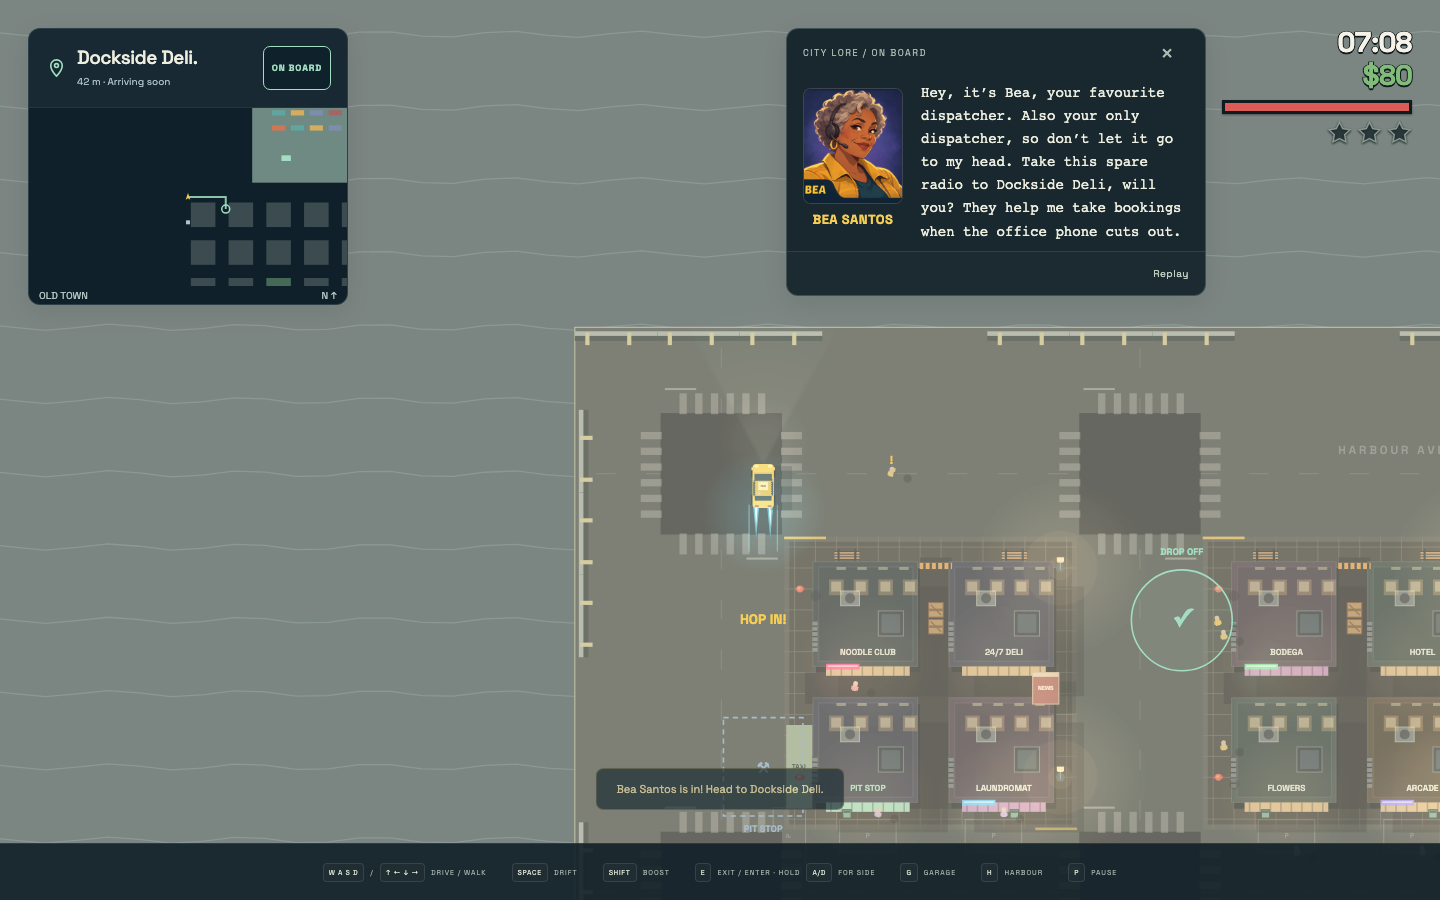
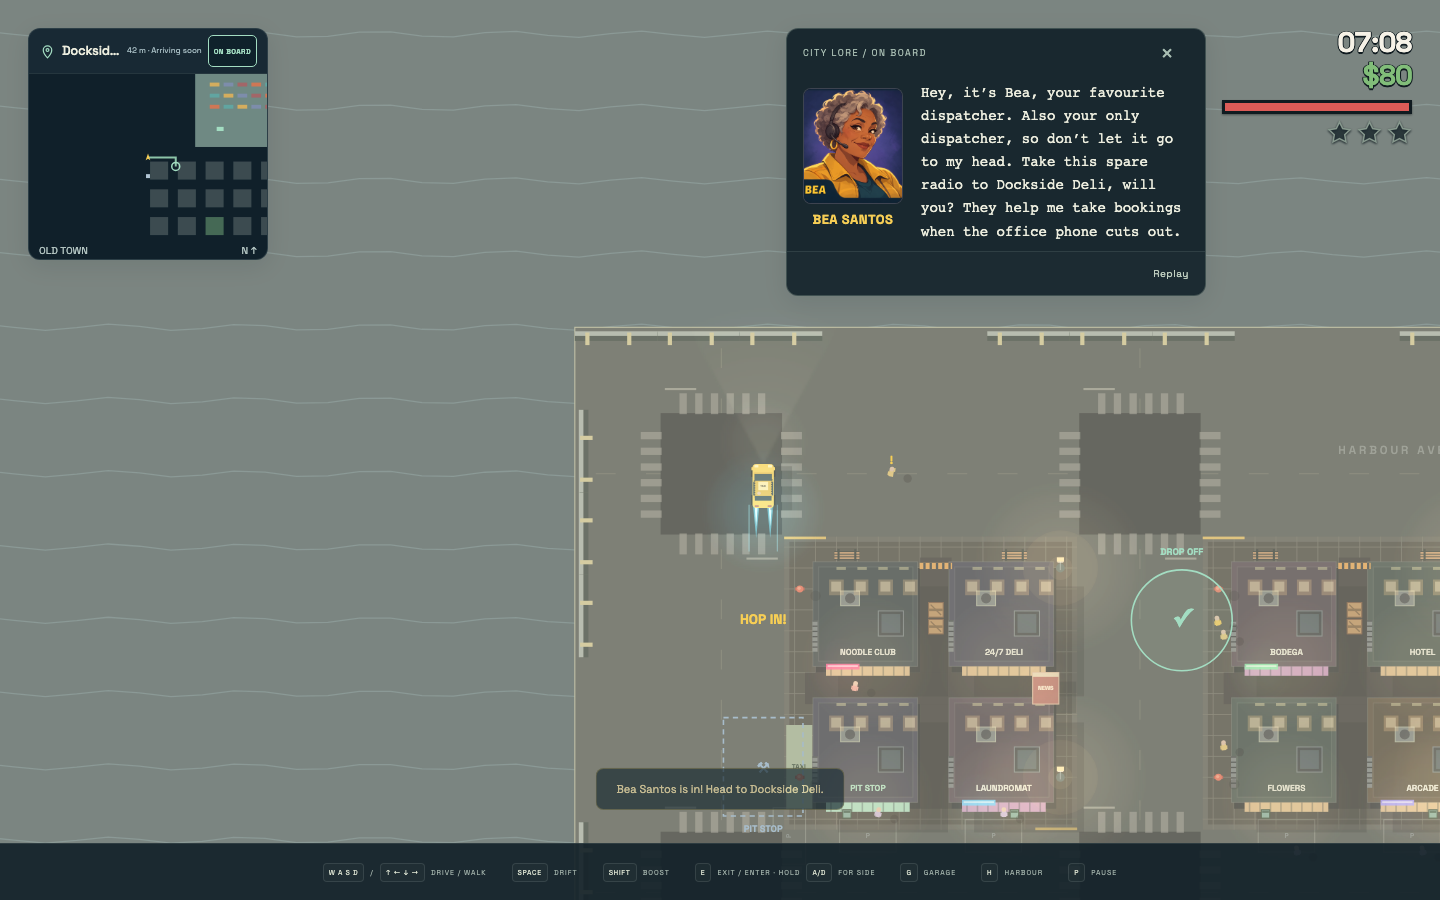
Compact navigation HUD into a single-line header and near-square map

Changed region(s): [[0.0, 0.0311, 0.25, 0.3422]]

diff --git a/src/navigation-hud.css b/src/navigation-hud.css
@@ -1,39 +1,36 @@
 /* Consolidated job and radar instrument. Personal status stays separate. */
-.navigation-hud{position:fixed;z-index:1;top:max(28px,env(safe-area-inset-top,0px));left:max(28px,env(safe-area-inset-left,0px));width:320px;overflow:hidden;background:#10222dec;touch-action:manipulation;--nav-accent:var(--gold)}
+.navigation-hud{position:fixed;z-index:1;top:max(28px,env(safe-area-inset-top,0px));left:max(28px,env(safe-area-inset-left,0px));--navigation-width:240px;width:var(--navigation-width);height:calc(var(--navigation-width) - 8px);display:flex;flex-direction:column;overflow:hidden;background:#10222dec;touch-action:manipulation;--nav-accent:var(--gold)}
 .navigation-hud [hidden]{display:none!important}
 .navigation-hud[data-state="on-board"],.navigation-hud[data-state="loaded"]{--nav-accent:var(--mint)}
 .navigation-hud[data-state="vacant"]{--nav-accent:#b9c9cb}
-.navigation-header{display:flex;gap:10px;align-items:center;justify-content:space-between;padding:14px 16px;min-height:78px}
-#navigation-destination{display:flex;gap:9px;align-items:center;min-width:0}
-#navigation-destination>div{min-width:0}
+.navigation-header{display:flex;flex-shrink:0;gap:6px;align-items:center;justify-content:space-between;padding:6px 10px;min-height:44px}
+#navigation-destination{display:flex;flex:1;gap:6px;align-items:center;min-width:0}
+#navigation-destination>div{display:flex;flex:1;gap:6px;align-items:center;min-width:0}
 .navigation-pin{display:flex;color:var(--nav-accent);flex-shrink:0}
-.navigation-pin svg{width:23px;height:23px}
-.navigation-hud h1{font-size:19px;letter-spacing:-.5px;line-height:1.2;overflow-wrap:anywhere}
-.navigation-hud #distance{font-size:10px;line-height:1.5;color:#a9bfc5;margin:4px 0 0;font-variant-numeric:tabular-nums}
-.taxi-state{flex-shrink:0;font-size:9px;font-weight:700;letter-spacing:.8px;min-width:44px;min-height:44px;padding:8px;border:1px solid var(--nav-accent);border-radius:7px;color:var(--nav-accent);background:#081b2280}
+.navigation-pin svg{width:17px;height:17px}
+.navigation-hud h1{flex:1;min-width:0;font-size:13px;letter-spacing:-.3px;line-height:1.2;white-space:nowrap;overflow:hidden;text-overflow:ellipsis}
+.navigation-hud #distance{flex-shrink:0;font-size:8px;line-height:1.4;color:#a9bfc5;margin:0;white-space:nowrap;font-variant-numeric:tabular-nums}
+.taxi-state{flex-shrink:0;font-size:7px;font-weight:700;letter-spacing:.4px;min-width:32px;min-height:32px;padding:5px;border:1px solid var(--nav-accent);border-radius:5px;color:var(--nav-accent);background:#081b2280}
 .taxi-state:disabled{opacity:1}
-#navigation-contacts{display:flex;gap:8px;align-items:center}
-#navigation-contacts button{display:grid;place-items:center;width:44px;height:44px;flex-shrink:0;padding:0;border:1px solid var(--border);border-radius:7px;background:#ffffff04;color:#b9ccd1}
-#navigation-contacts .story-portrait{width:42px;height:42px;border:0;border-radius:6px;aspect-ratio:1}
+#navigation-contacts{display:flex;gap:4px;align-items:center}
+#navigation-contacts button{display:grid;place-items:center;width:32px;height:32px;flex-shrink:0;padding:0;border:1px solid var(--border);border-radius:5px;background:#ffffff04;color:#b9ccd1}
+#navigation-contacts svg{width:16px;height:16px}
+#navigation-contacts .story-portrait{width:28px;height:28px;border:0;border-radius:4px;aspect-ratio:1}
 .navigation-hud button:hover:not(:disabled){background:#ffffff0d;color:var(--gold)}
 .navigation-hud button:disabled:not(.taxi-state){opacity:.35}
-.navigation-chart{position:relative;border-top:1px solid var(--border);background:#0b1b2490}
-.navigation-hud #map{display:block;width:100%;height:196px;margin:0;padding:0}
+.navigation-chart{position:relative;flex:1;min-height:0;border-top:1px solid var(--border);background:#0b1b2490}
+.navigation-hud #map{display:block;width:100%;height:100%;margin:0;padding:0}
 /* Preserve the existing right-hand personal status and conversation layout. */
 .toast{max-width:calc(100% - 440px)}
 @media(max-width:700px), (max-width:1000px) and (max-height:500px), (pointer:coarse) and (max-width:1200px){
-  :root{--navigation-width:min(204px,calc(100vw - var(--edge-left) - var(--edge-right) - var(--dash-width) - 12px))}
-  .navigation-hud{top:calc(var(--top-height) + 8px);left:var(--edge-left);right:auto;width:var(--navigation-width);border-radius:10px}
-  .navigation-header{padding:8px 10px;gap:6px;min-height:68px}
-  .navigation-hud h1{font-size:14px;letter-spacing:-.3px}
+  :root{--navigation-width:min(196px,calc(100vw - var(--edge-left) - var(--edge-right) - var(--dash-width) - 12px))}
+  .navigation-hud{--navigation-width:inherit;top:calc(var(--top-height) + 8px);left:var(--edge-left);right:auto;border-radius:10px}
+  .navigation-header{padding:4px 6px;gap:4px;min-height:52px}
+  .navigation-hud h1{font-size:12px}
   .navigation-pin{display:none}
-  .navigation-hud #distance{font-size:9px}
-  .taxi-state{font-size:8px;padding:5px;letter-spacing:.3px;max-width:66px}
-  #navigation-contacts{gap:3px;flex-wrap:wrap}
-  .navigation-hud[data-state="vacant"] .navigation-header{padding:8px;gap:4px}
-  .navigation-hud[data-state="vacant"] .taxi-state{font-size:7px;padding:3px;letter-spacing:0}
-  #navigation-contacts button{width:44px}
-  .navigation-hud #map{height:134px;padding:0}
+  .taxi-state{min-width:44px;min-height:44px;padding:4px;letter-spacing:0;max-width:60px}
+  #navigation-contacts{gap:0}
+  #navigation-contacts button{width:44px;height:44px}
   .story,.story.collapsed,.roadside{top:calc(var(--top-height) + 144px);left:auto;right:var(--edge-right);width:calc(100vw - var(--edge-left) - var(--edge-right) - var(--navigation-width) - 12px);max-width:360px;max-height:calc(100dvh - var(--top-height) - var(--stick-size) - var(--edge-bottom) - 210px)}
   .story-body{display:flow-root}
   .story-speaker{float:left;width:44px;margin:0 9px 8px 0}
@@ -41,15 +38,15 @@
   .toast{top:auto;bottom:calc(var(--edge-bottom) + var(--stick-size) + 64px);left:var(--edge-left);width:calc(100% - var(--edge-left) - var(--edge-right));max-width:360px}
 }
 @media(max-height:500px) and (max-width:1000px), (max-height:500px) and (pointer:coarse) and (max-width:1200px){
-  :root{--navigation-width:240px}
+  :root{--navigation-width:180px}
   .navigation-hud{max-height:calc(100dvh - var(--top-height) - 16px);overflow:auto}
-  .navigation-header{min-height:52px;padding:4px 10px}
-  #navigation-contacts{flex-wrap:nowrap}
-  .navigation-hud #map{height:85px}
-  .story,.story.collapsed,.roadside{left:calc(var(--edge-left) + 252px);right:auto;top:calc(var(--top-height) + 8px);width:calc(100vw - var(--edge-left) - var(--edge-right) - 252px - var(--dash-width) - 12px);max-height:calc(100dvh - var(--top-height) - var(--stick-size) - var(--edge-bottom) - 28px)}
+  .story,.story.collapsed,.roadside{left:calc(var(--edge-left) + var(--navigation-width) + 12px);right:auto;top:calc(var(--top-height) + 8px);width:calc(100vw - var(--edge-left) - var(--edge-right) - var(--navigation-width) - var(--dash-width) - 24px);max-height:calc(100dvh - var(--top-height) - var(--stick-size) - var(--edge-bottom) - 28px)}
   .context-action{left:auto;right:var(--edge-right);max-width:150px}
-  .toast{left:calc(var(--edge-left) + 252px);width:calc(100vw - var(--edge-left) - var(--edge-right) - 264px);max-width:360px}
+  .toast{left:calc(var(--edge-left) + var(--navigation-width) + 12px);width:calc(100vw - var(--edge-left) - var(--edge-right) - var(--navigation-width) - 24px);max-width:360px}
 }
-@media(max-width:360px) and (min-height:501px){
-  .navigation-hud #map{height:112px}
+/* Narrow layouts keep one row with 32 px targets (above the 24 px WCAG minimum). */
+@media(max-width:360px), (max-height:500px) and (max-width:1000px), (max-height:500px) and (pointer:coarse) and (max-width:1200px){
+  .navigation-header{min-height:40px}
+  #navigation-contacts button{width:32px;height:32px}
+  .taxi-state{min-width:32px;min-height:32px;padding:3px}
 }

diff --git a/src/navigation-hud.ts b/src/navigation-hud.ts
@@ -89,6 +89,7 @@ export function bindNavigationHud(root: HTMLElement, currentGame: () => Game, ac
     (get('job-status') as HTMLButtonElement).disabled = !canClear;
     get('job-status').title = canClear ? state.vacant ? 'Route the next fare' : 'Clear fare guidance and browse dispatch' : state.status;
     get('mission-title').textContent = state.title;
+    get('mission-title').title = state.title;
     get('distance').textContent = `${state.distance} m${state.arriving ? ' · Arriving soon' : ''}`;
     (get('dispatch') as HTMLButtonElement).disabled = g.mode !== 'playing';
     for (const id of ['texts', 'newsroom']) (get(id) as HTMLButtonElement).disabled = !g.campaignEnabled || g.mode !== 'playing';

diff --git a/HOW_TO.md b/HOW_TO.md
@@ -56,7 +56,9 @@ remain in the notebook. The last edition is **Day 14 at 06:00**. See the
 
 Use the radar and navigation markers to find jobs and destinations. Routes follow roads, and fare distance and timing account for the road network.
 
-The **top-left navigation card** combines your current job and local minimap.
+The **top-left navigation card** combines your current job and local minimap in
+a compact, nearly square box. Destination, distance and status share one header
+line; long names are shortened visually, with the full name available on hover.
 **ENGAGED** means pickup guidance is selected; **ON BOARD** shows the destination.
 The card ends at the map, without lower readouts or service buttons. Clock, cash,
 personal health and police stars stay separate at the top right.
